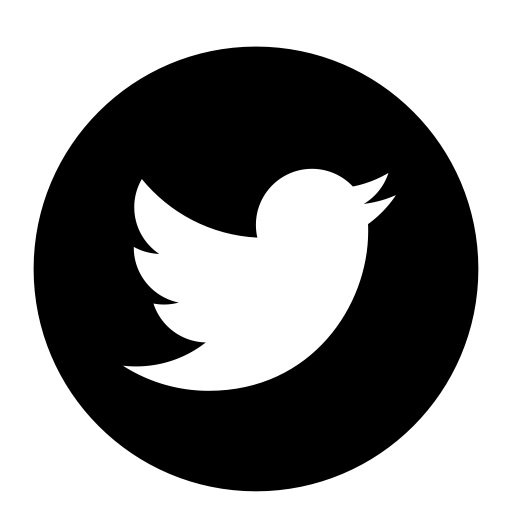
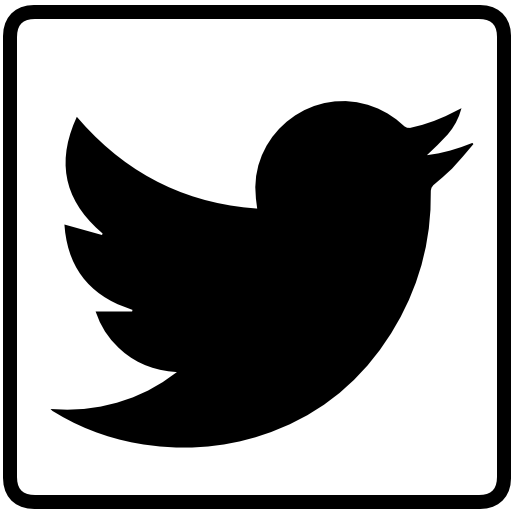
arreglo de errores y nuevos iconos

diff --git a/CSS/style.css b/CSS/style.css
@@ -18,6 +18,7 @@
 html {
   font-size: 62.5%;
   font-family: "Mulish", sans-serif;
+  scroll-behavior: smooth;
 }
 
 body {
@@ -108,23 +109,29 @@ body {
   font-size: 2.4rem;
   margin-left: auto;
   margin-right: auto;
+  padding-top: 15px;
 }
 
-.containerHero img {
+.containerHero .profile__img {
   width: 120px;
-  margin-left: 50px;
+  margin-left: 100px;
+  padding: 15px 0px;
 }
 
 .hero .containerHero div {
   position: absolute;
   bottom: 200px;
+  padding-left: 25px;
 }
 
 .hero .containerHero div ul {
   display: flex;
   list-style: none;
-  padding: 5px;
+  padding-left: 25px;
   margin: 0;
+  flex-direction: row;
+  align-items: center;
+  align-content: center;
 }
 
 .hero .containerHero div ul li {
@@ -132,8 +139,13 @@ body {
   display: inline-block;
 }
 
-.hero .iconoHero1 {
-  width: 80px;
+.hero .iconoHero {
+  width: 60px;
+  height: auto;
+  margin-right: 25px;
+}
+.hero .iconoHero2 {
+  width: 90px;
   height: auto;
   margin-right: 25px;
 }
@@ -195,9 +207,9 @@ body {
 }
 
 .mainAboutMe .containerImg img {
-  width: 120px;
+  width: 150px;
   padding-top: 15px;
-  margin-left: 100px;
+  margin-left: 110px;
 }
 
 .mainAboutMe .containerMainAboutMe .containerMainAboutMeText {
@@ -208,16 +220,16 @@ body {
 
 .mainAboutMe .containerMainAboutMe .containerMainAboutMeText h2 {
   color: #000000;
-  font-weight: 500;
+  font-weight: bold;
   letter-spacing: 0.6px;
   margin: 0;
   padding: 10px;
   text-align: center;
-  font-size: 1.8rem;
+  font-size: 2.2rem;
 }
 
 .mainAboutMe .containerMainAboutMe .containerMainAboutMeText h4 {
-  font-size: 1.6rem;
+  font-size: 2rem;
   color: #222222;
   font-weight: 500;
   letter-spacing: 0.6px;
@@ -228,13 +240,13 @@ body {
 
 .mainAboutMe .containerMainAboutMe .containerMainAboutMeText p {
   color: #ffffff;
-  font-weight: 300;
+  font-weight: bold;
   letter-spacing: 0.6px;
   margin: 0;
   padding: 10px;
-  line-height: 1.6rem;
+  line-height: 2.4rem;
   text-align: center;
-  font-size: 1.2rem;
+  font-size: 1.6rem;
 }
 
 .buttonHireMe {
@@ -456,7 +468,7 @@ body {
   display: block;
   padding: 15px 35px;
   border-radius: 45px;
-  background-color: #89c9b8;
+  background-color: var(--blue-gray);
   color: #092532;
   font-size: 2.5rem;
   font-weight: 500;
@@ -489,19 +501,6 @@ footer a {
 footer p {
   padding: 20px 50px;
   margin: 0;
-}
-
-.burger-button {
-  width: 50px;
-  height: 50px;
-  border-radius: 50%;
-  background-color: #84c3b380;
-  text-align: center;
-  position: fixed;
-  z-index: 3;
-  left: 10px;
-  top: 10px;
-  display: none;
 }
 
 ::-webkit-scrollbar {

diff --git a/index.html b/index.html
@@ -26,7 +26,7 @@
         <p>Más Información</p>
         <ul>
           <li><a href="#main" class="hoverLine"> Sobre Mi</a></li>
-          <li><a href="#portfolio" class="hoverLine">Proyectos</a></li>
+          <li><a href="#proyectos" class="hoverLine">Proyectos</a></li>
           <li><a href="#contact" class="hoverLine">Contacto</a></li>
           <li><a href="" class="hoverBorder" target="_blank">Curriculum</a></li>
         </ul>
@@ -38,7 +38,11 @@
           Hola, yo soy <br /><strong>Jeison Crespo</strong><br />
           Desarrollador web
         </h1>
-        <img src="./IMAGES/Profile.jpeg" alt="Foto de portada" />
+        <img
+          class="profile__img"
+          src="./IMAGES/Profile.jpeg"
+          alt="Foto de portada"
+        />
         <div class="iconprofile">
           <ul>
             <li>
@@ -47,7 +51,7 @@
                 target="_blank"
                 aria-label="Twitter Jeison"
                 ><img
-                  class="iconoHero1"
+                  class="iconoHero"
                   src="./IMAGES/Twitter.png"
                   alt="Twitter"
                 />
@@ -58,7 +62,18 @@
                 href="https://github.com/JeisonCrespo"
                 target="_blank"
                 aria-label="github Jeison"
-                ><img class="iconoHero1" src="./IMAGES/GitHub.png" alt="GitHub"
+                ><img class="iconoHero" src="./IMAGES/GitHub.png" alt="GitHub"
+              /></a>
+            </li>
+            <li>
+              <a
+                href="https://www.linkedin.com/in/jeison-crespo-046630200/"
+                target="_blank"
+                aria-label="linkedin Jeison"
+                ><img
+                  class="iconoHero"
+                  src="./IMAGES/linkedin.png"
+                  alt="linkedin"
               /></a>
             </li>
           </ul>
@@ -92,7 +107,7 @@
     <section class="buttonHireMe">
       <a href="#main" class="button">Trabajemos Juntos</a>
     </section>
-    <section class="carousel">
+    <section class="carousel" id="proyectos">
       <h2>Proyectos</h2>
       <div class="carousel__container">
         <div class="carousel-item">
